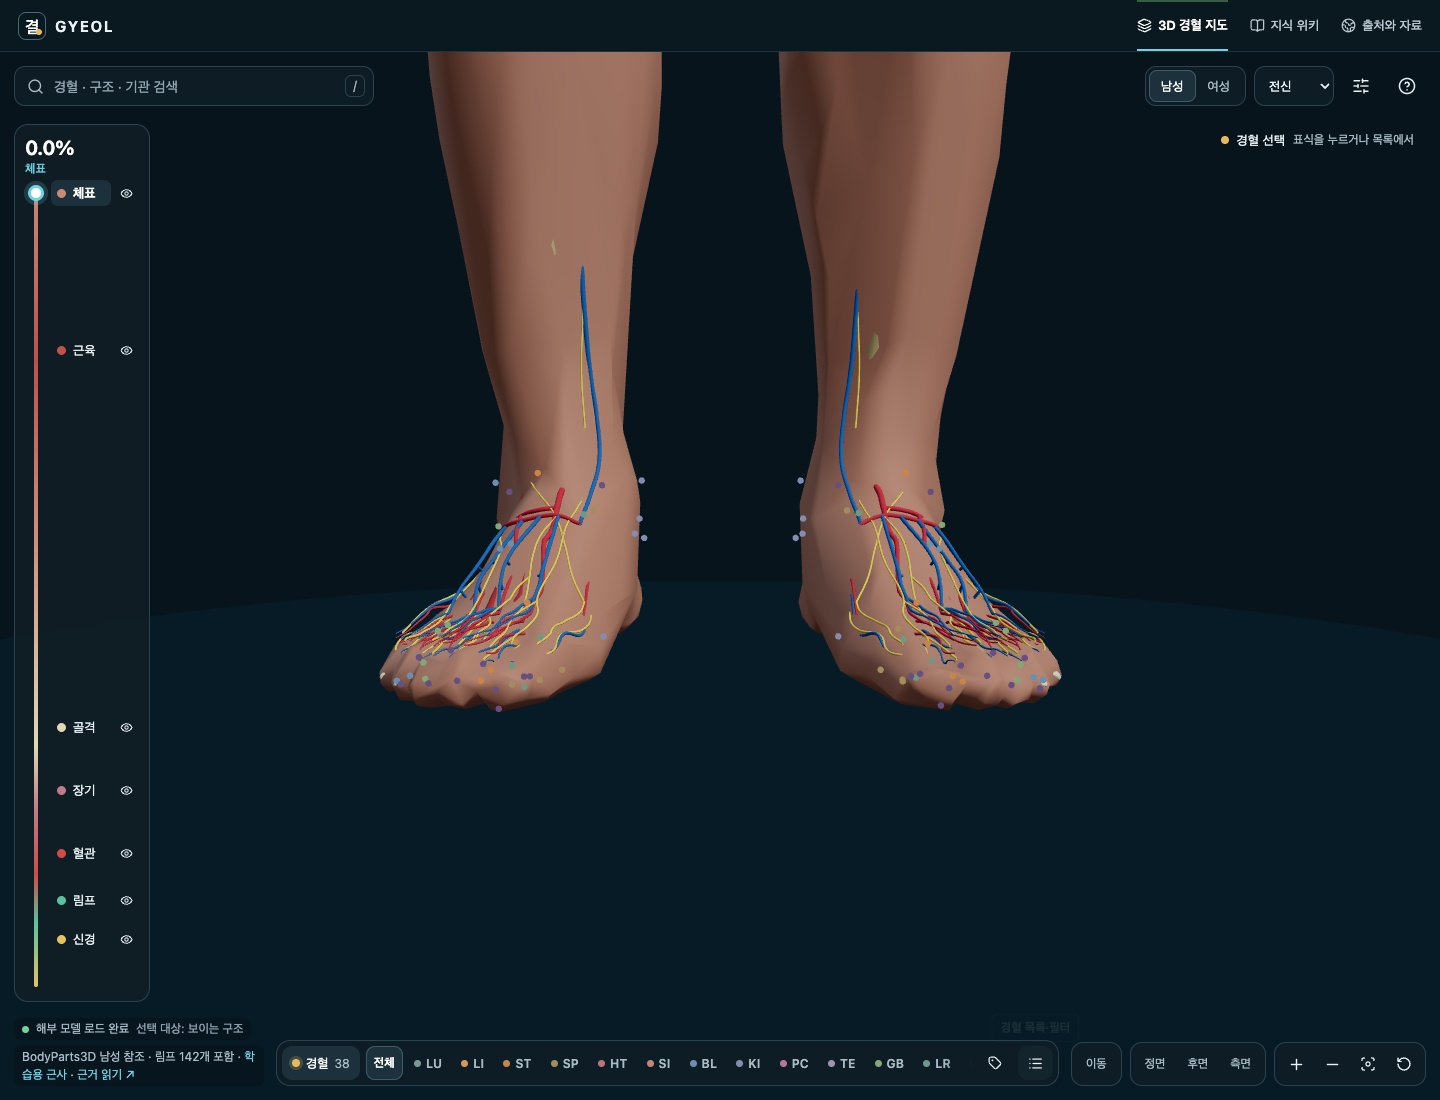
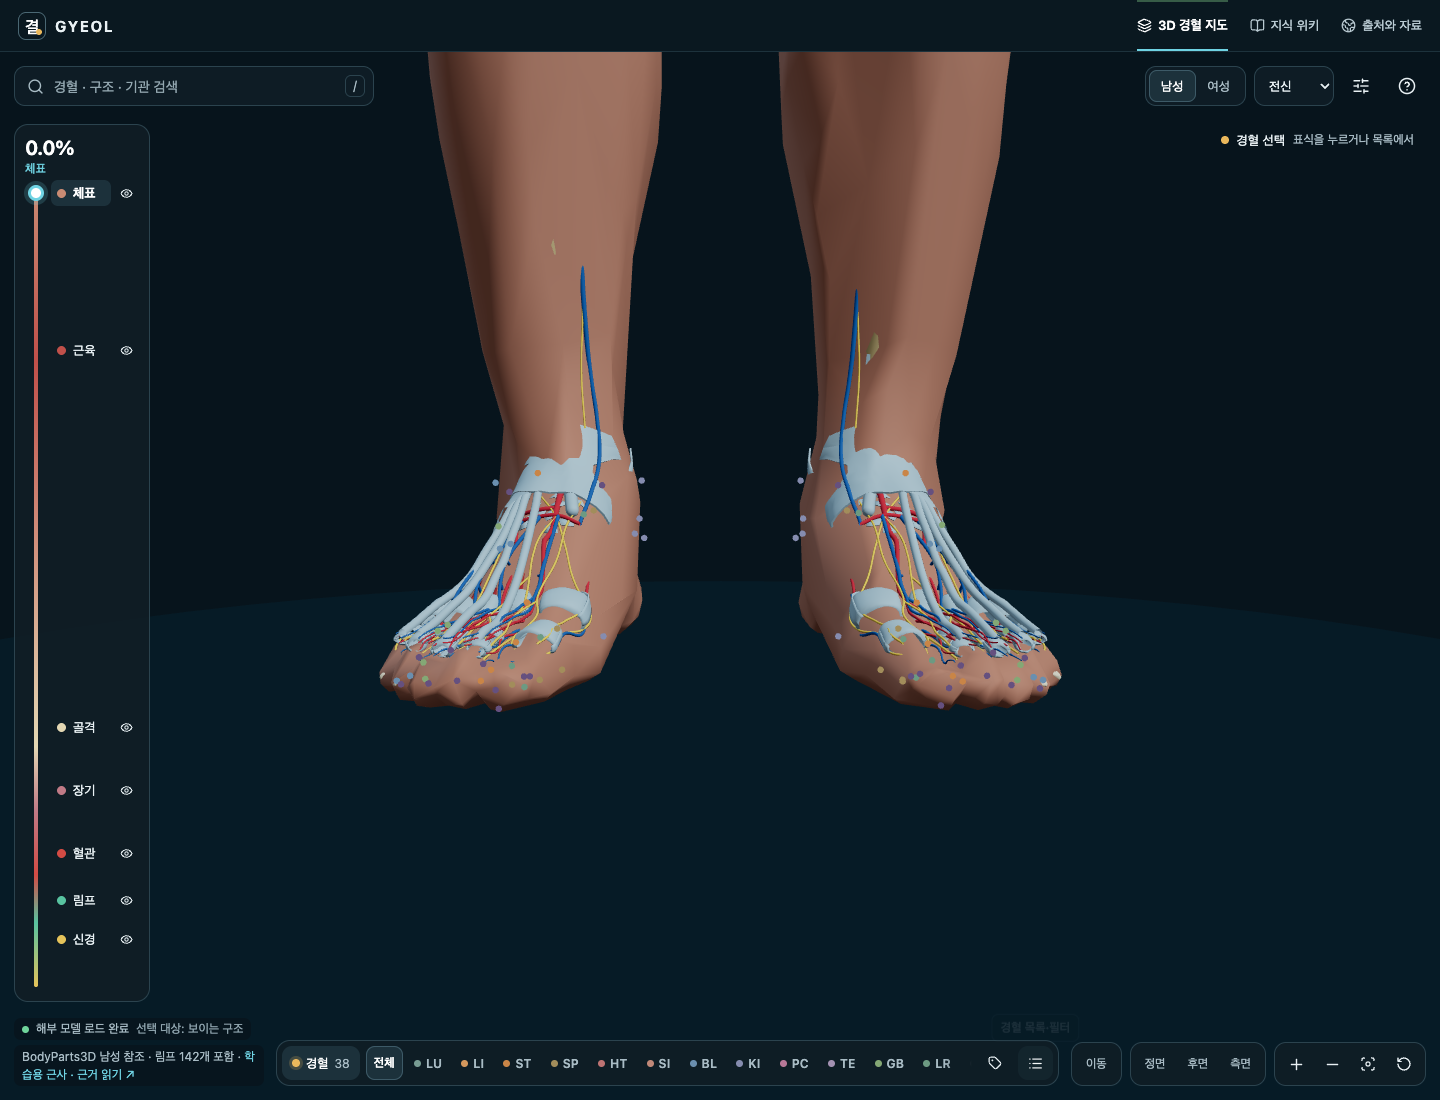
Record public Pages verification for ligaments and tendons

Changed region(s): [[0.5625, 0.3709, 0.7188, 0.6182], [0.2812, 0.3709, 0.4375, 0.6182]]

diff --git a/docs/anatomy-alignment/VERIFICATION.md b/docs/anatomy-alignment/VERIFICATION.md
@@ -13,6 +13,8 @@
 
 과정의 실패를 숨기지 않습니다. 첫 힘줄 파일은 노드를 지운 뒤 남은 접근자를 정리하지 않아 53MB였고, 정리 후 0.33MB가 되었습니다. 여성 HRA ‘connective’ 분류에는 척추사이원반·부착부·연골 표면이 섞여 있어 처음 기준(18개)을 인대·반달연골·힘줄 16개로 좁혔습니다. 기하 감사가 새 메쉬를 포함하지 않는 것을 발견해 목록에 추가했습니다. 한국어명은 편집 표기이며 전문가 검수 전입니다. 대부분의 힘줄은 원본에서 근육 메쉬의 일부라 따로 보이지 않습니다. 첫 진입 다운로드는 약 1.9MB 늘었고, 남성 0%의 그리기 호출은 2,075개에서 2,508개(+433), 로컬 GPU 한 프레임의 CPU 제출 시간은 10.1ms에서 11.3ms가 되었습니다. 체표에 가려진 0%에서도 그리는 것은, 피부 밖으로 벗어난 구조를 숨기지 않기 위해 이전에 체표 가림 생략을 채택하지 않은 기준과 같습니다. 실제 휴대폰·저사양 GPU는 검증하지 않았습니다.
 
+커밋 `b62462f`의 [GitHub Pages 작업36712345294](https://github.com/jay-jang/gyeol-atlas/actions/runs/36712345294)은 `npm ci`·Node 테스트·Pages 빌드·게시에 성공했습니다. 공개 HTTPS에서 `ligament-full.glb`(1,541,408바이트)·`tendon-full.glb`(332,516바이트)가 제공되고, [Pages 스모크](../acupoint-expansion/pages-verification.json)(경혈409개·정적 위키 선로딩 모델 요청0·남성 심장83개·여성 전신1,220개와 뇌283개·오류0, 새 ‘목록 패널 위 몸 픽셀’ 단언 포함)를 소프트웨어 WebGL과 GPU 양쪽에서, [장면 도구 확장 감사](scene-overlays-public.json)(8화면×3상태 겹침0)를 GPU에서 통과했습니다. 공개 데스크톱·휴대폰에서 66% 박리 시 인대358·힘줄58개 표시, ‘인대·힘줄만 보기’ 433개와 카드 문구, 브라우저 오류0을 확인하고 휴대폰 화면을 직접 봤습니다. 공개 검사는 모의 뷰포트이며 실제 기기 검증이 아닙니다.
+
 ## 최신 후속: 모두 존재한 상태의 박리, 미니멀 화면, 여러 경혈 동시 표시
 
 | 요구 | 현재 직접 증거 | 판정 |
